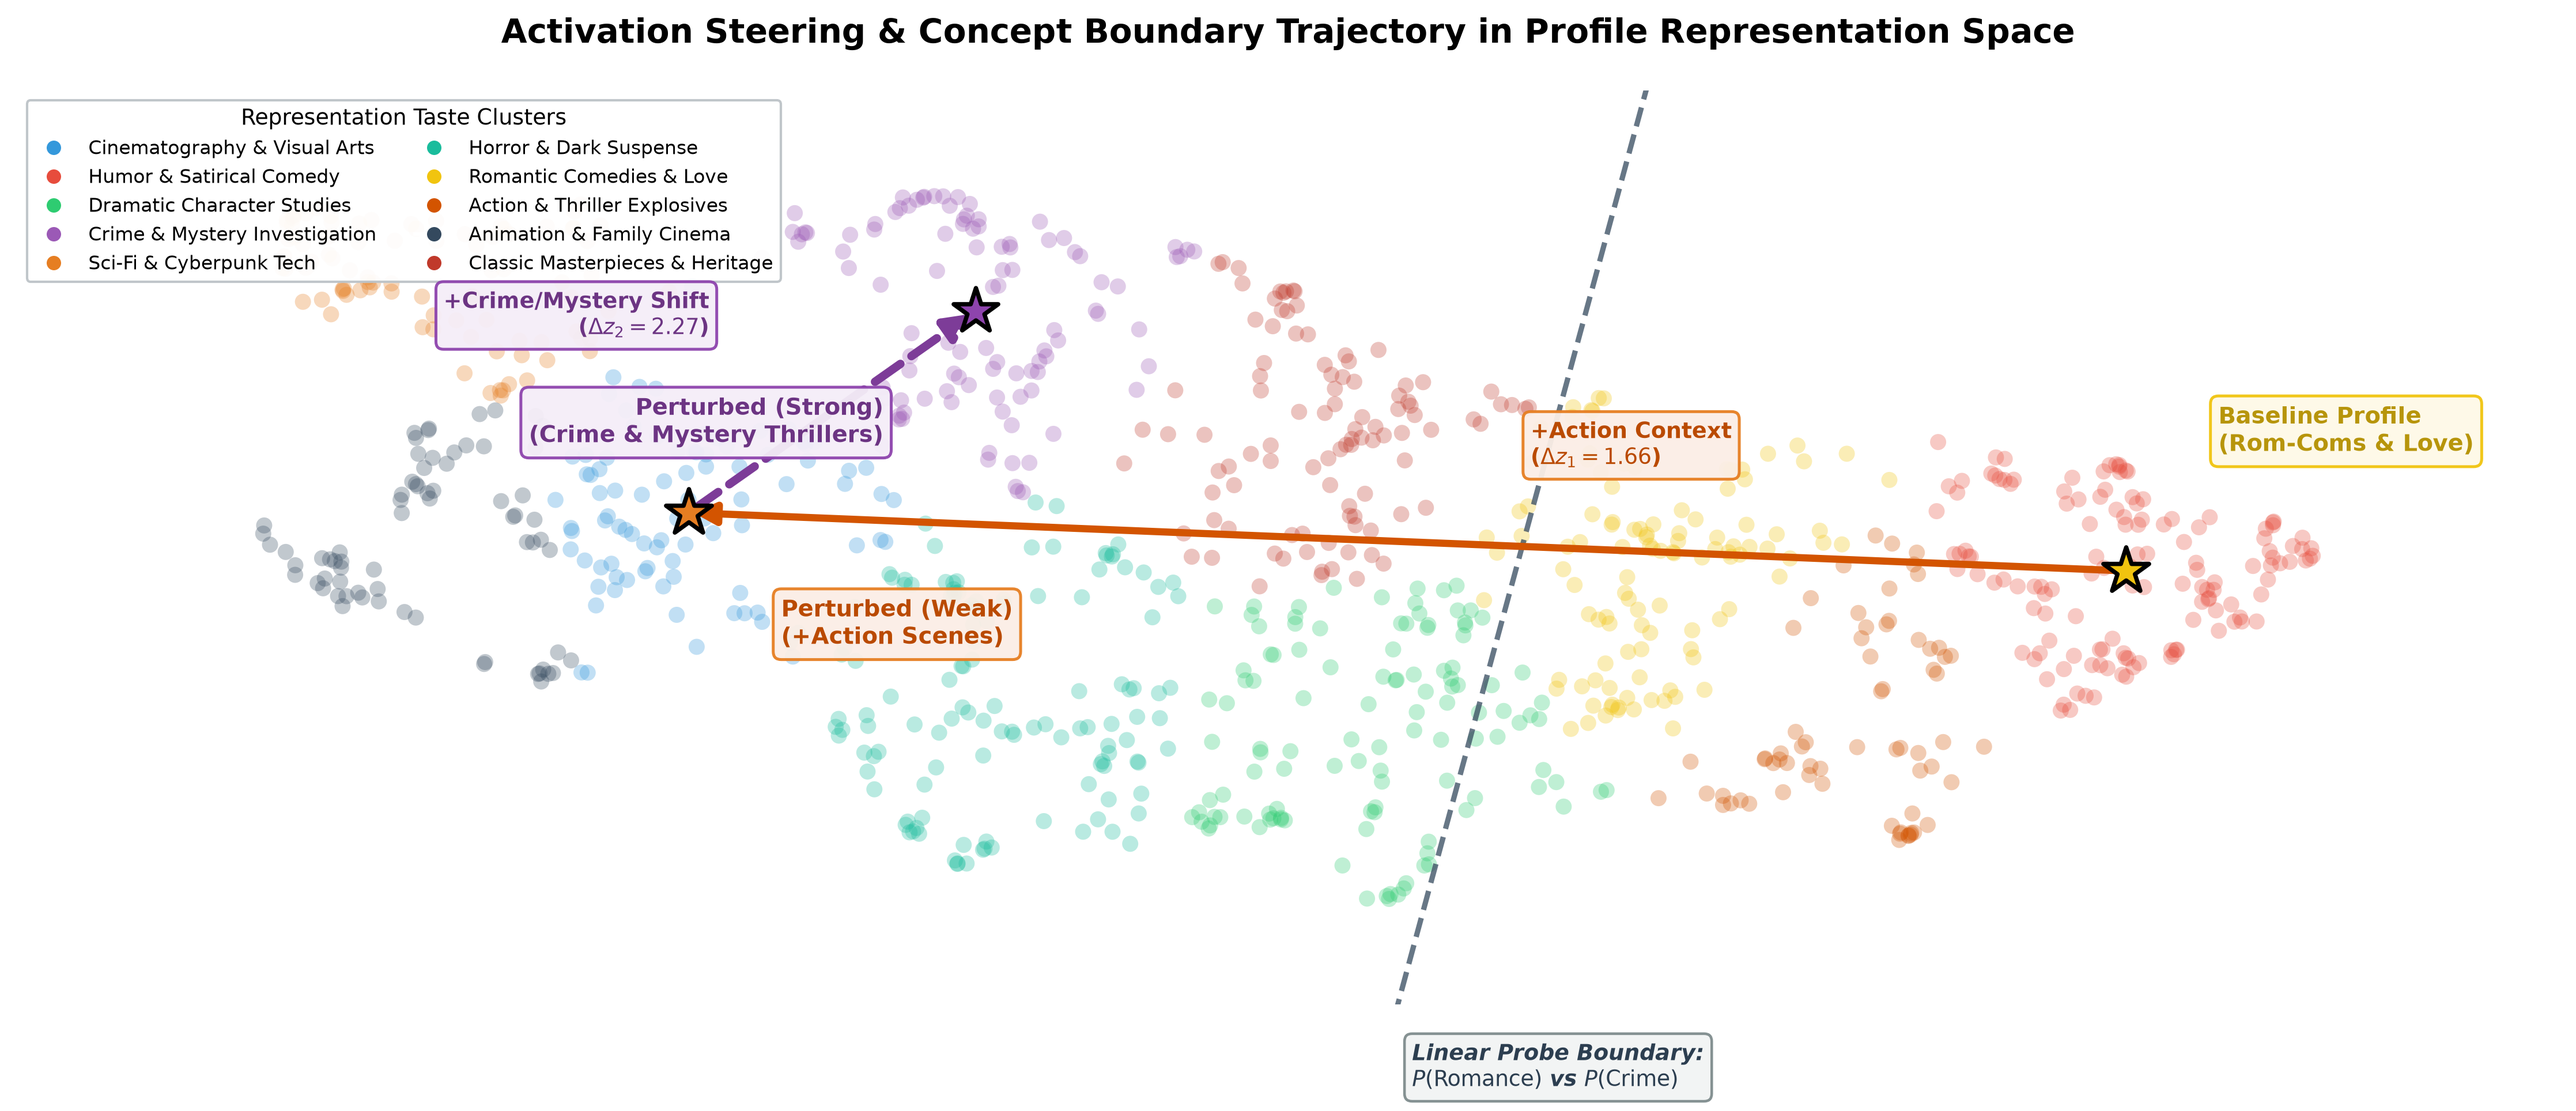
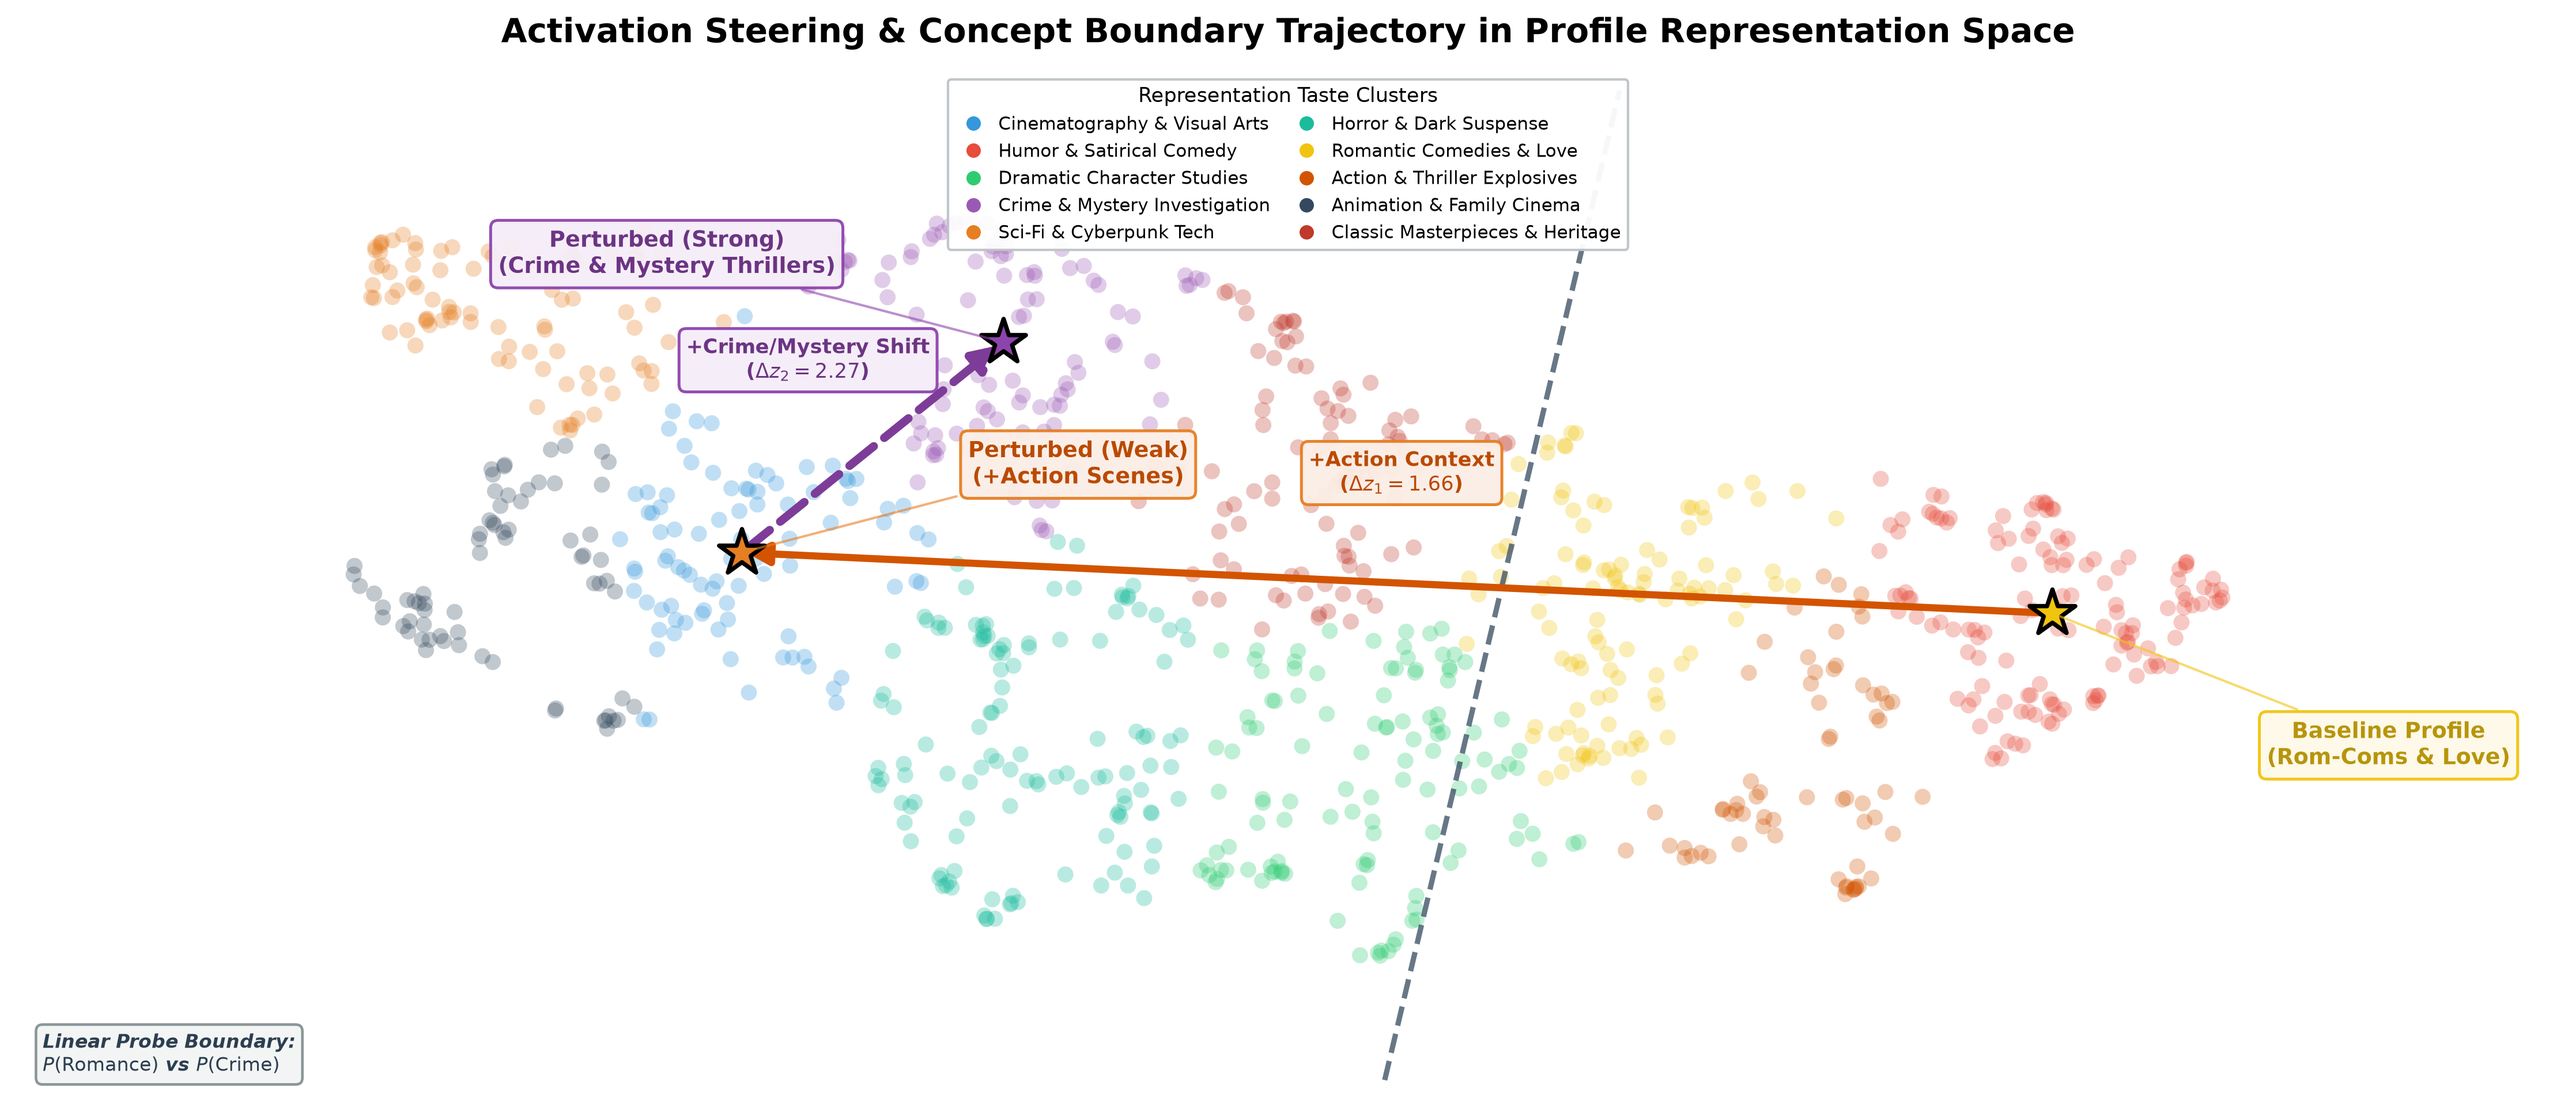
update perturbation mechanistic interpretability plot

diff --git a/user_profile_interpretability.py b/user_profile_interpretability.py
@@ -21,10 +21,16 @@ from sklearn.feature_extraction.text import TfidfVectorizer
 CACHE_DIR = os.path.join(os.path.dirname(os.path.abspath(__file__)), "cache")
 
 
-def _make_cache_key(model_path: str, n_profiles: int, theme_method: str,
-                    n_clusters: int, seed: int = 42) -> str:
-    """Deterministic hash string used to key cached artefacts."""
-    raw = f"{os.path.abspath(model_path)}|{n_profiles}|{theme_method}|{n_clusters}|{seed}"
+def _make_data_cache_key(model_path: str, n_profiles: int,
+                         n_clusters: int, seed: int = 42) -> str:
+    """Cache key for embeddings, BERTScore, UMAP, and K-Means (theme-independent)."""
+    raw = f"{os.path.abspath(model_path)}|{n_profiles}|{n_clusters}|{seed}"
+    return hashlib.sha256(raw.encode()).hexdigest()[:16]
+
+
+def _make_theme_cache_key(data_key: str, theme_method: str) -> str:
+    """Cache key for cluster themes (extends the data key with theme method)."""
+    raw = f"{data_key}|{theme_method}"
     return hashlib.sha256(raw.encode()).hexdigest()[:16]
 
 try:
@@ -987,7 +993,7 @@ def run_perturbation_study(
                 edgecolors='none'
             )
             
-        # Wide-angle 2-column legend for compact, clean header integration in paper reports
+        # Wide-angle 2-column legend OUTSIDE the plot area to avoid obscuring data
         if cluster_themes is not None:
             from matplotlib.lines import Line2D
             legend_elements = []
@@ -1003,13 +1009,17 @@ def run_perturbation_study(
             ax.legend(
                 handles=legend_elements, 
                 title="Representation Taste Clusters", 
-                title_fontsize=9.0,
+                title_fontsize=8.5,
                 ncols=2,
-                loc="upper left", 
-                fontsize=8.0, 
+                loc="upper center", 
+                bbox_to_anchor=(0.5, 1.02),
+                fontsize=7.5, 
                 framealpha=0.95, 
                 facecolor="white",
-                edgecolor="#BDC3C7"
+                edgecolor="#BDC3C7",
+                borderpad=0.4,
+                columnspacing=1.0,
+                handletextpad=0.4
             )
     else:
         ax.scatter(proj[:, 0], proj[:, 1], color='#34495E', s=40, alpha=0.25, edgecolors='none')
@@ -1018,8 +1028,16 @@ def run_perturbation_study(
     emb_dist_1 = float(np.linalg.norm(embs[1] - embs[0]))
     emb_dist_2 = float(np.linalg.norm(embs[2] - embs[1]))
     
+    # Compute data extent for adaptive label placement
+    all_x = list(proj[:, 0]) + [proj_baseline[0], proj_perturbed_weak[0], proj_perturbed_strong[0]]
+    all_y = list(proj[:, 1]) + [proj_baseline[1], proj_perturbed_weak[1], proj_perturbed_strong[1]]
+    x_range = max(all_x) - min(all_x)
+    y_range = max(all_y) - min(all_y)
+    # Use proportional offsets based on data extent
+    ox = x_range * 0.06   # horizontal offset unit
+    oy = y_range * 0.06   # vertical offset unit
+    
     # --- 1. Linear Probe Decision Boundary Line ---
-    # Hyperplane orthogonal to steering vector separating Romance space from Crime space
     probe_midpoint = (proj_baseline + proj_perturbed_strong) / 2.0
     vec_direction = proj_perturbed_strong - proj_baseline
     perp_direction = np.array([-vec_direction[1], vec_direction[0]])
@@ -1040,73 +1058,70 @@ def run_perturbation_study(
         label="Linear Probe Boundary"
     )
     
-    # Probe Boundary Label placed cleanly off the top end of the line
+    # Probe boundary label — pinned to bottom-left corner of the axes
     ax.text(
-        probe_line_p2[0] + 0.3, probe_line_p2[1] + 0.2,
+        0.01, 0.01,
         "Linear Probe Boundary:\n$P(\\mathrm{Romance})$ vs $P(\\mathrm{Crime})$",
-        fontsize=9.0,
+        fontsize=8.0,
         fontweight="bold",
         fontstyle="italic",
         color="#2C3E50",
         ha="left",
         va="bottom",
-        bbox=dict(boxstyle="round,pad=0.35", facecolor="#F2F4F4", edgecolor="#7F8C8D", alpha=0.95, lw=1.1),
+        transform=ax.transAxes,
+        bbox=dict(boxstyle="round,pad=0.35", facecolor="#F2F4F4", edgecolor="#7F8C8D", alpha=0.90, lw=1.1),
         zorder=9
     )
 
     # --- 2. Sequential Connected Trajectory Arrows (A -> B -> C) ---
-    # Vector 1: Baseline -> Weak (+Action Context)
     ax.annotate(
         '', 
         xy=(proj_perturbed_weak[0], proj_perturbed_weak[1]), 
         xytext=(proj_baseline[0], proj_baseline[1]),
-        arrowprops=dict(
-            arrowstyle="-|>", 
-            color="#D35400", 
-            lw=3.0, 
-            mutation_scale=18
-        ),
+        arrowprops=dict(arrowstyle="-|>", color="#D35400", lw=3.0, mutation_scale=18),
         zorder=6
     )
     
-    # Vector 2: Weak -> Strong (+Crime/Mystery Shift)
     ax.annotate(
         '', 
         xy=(proj_perturbed_strong[0], proj_perturbed_strong[1]), 
         xytext=(proj_perturbed_weak[0], proj_perturbed_weak[1]),
-        arrowprops=dict(
-            arrowstyle="-|>", 
-            color="#7D3C98", 
-            lw=3.5, 
-            linestyle="--",
-            mutation_scale=22
-        ),
+        arrowprops=dict(arrowstyle="-|>", color="#7D3C98", lw=3.5, linestyle="--", mutation_scale=22),
         zorder=6
     )
 
-    # Vector Delta Callout Badges (positioned cleanly without overlap)
+    # Vector delta callout badges — placed at midpoints with adaptive offsets
     mid1 = (proj_baseline + proj_perturbed_weak) / 2.0
+    # Place action badge perpendicular to the arrow (below-right if arrow goes up-left, etc.)
+    arrow1_dir = proj_perturbed_weak - proj_baseline
+    perp1 = np.array([arrow1_dir[1], -arrow1_dir[0]])
+    perp1 = perp1 / (np.linalg.norm(perp1) + 1e-8)
+    badge1_pos = mid1 + perp1 * oy * 2.5
     ax.text(
-        mid1[0] + 0.8, mid1[1] + 0.5,
+        badge1_pos[0], badge1_pos[1],
         f"+Action Context\n($\\Delta z_1 = {emb_dist_1:.2f}$)",
-        fontsize=9.0,
+        fontsize=8.5,
         fontweight="bold",
         color="#BA4A00",
-        ha="left",
-        va="bottom",
+        ha="center",
+        va="center",
         bbox=dict(boxstyle="round,pad=0.35", facecolor="#FBEEE6", edgecolor="#E67E22", alpha=0.95, lw=1.2),
         zorder=8
     )
 
     mid2 = (proj_perturbed_weak + proj_perturbed_strong) / 2.0
+    arrow2_dir = proj_perturbed_strong - proj_perturbed_weak
+    perp2 = np.array([-arrow2_dir[1], arrow2_dir[0]])
+    perp2 = perp2 / (np.linalg.norm(perp2) + 1e-8)
+    badge2_pos = mid2 + perp2 * oy * 2.5
     ax.text(
-        mid2[0] - 0.8, mid2[1] + 0.5,
+        badge2_pos[0], badge2_pos[1],
         f"+Crime/Mystery Shift\n($\\Delta z_2 = {emb_dist_2:.2f}$)",
-        fontsize=9.0,
+        fontsize=8.5,
         fontweight="bold",
         color="#6C3483",
-        ha="right",
-        va="bottom",
+        ha="center",
+        va="center",
         bbox=dict(boxstyle="round,pad=0.35", facecolor="#F5EEF8", edgecolor="#8E44AD", alpha=0.95, lw=1.2),
         zorder=8
     )
@@ -1116,33 +1131,36 @@ def run_perturbation_study(
     ax.scatter([proj_perturbed_weak[0]], [proj_perturbed_weak[1]], color='#E67E22', marker='*', s=400, edgecolor='black', linewidth=1.8, zorder=7)
     ax.scatter([proj_perturbed_strong[0]], [proj_perturbed_strong[1]], color='#8E44AD', marker='*', s=380, edgecolor='black', linewidth=1.8, zorder=7)
 
-    # Clean, non-overlapping node labels
-    ax.text(
-        proj_baseline[0] + 0.6, proj_baseline[1] + 0.8, 
-        "Baseline Profile\n(Rom-Coms & Love)", 
-        fontsize=9.5, fontweight='bold', color='#B7950B', ha='left', va='bottom', 
-        bbox=dict(boxstyle="round,pad=0.35", facecolor="#FEF9E7", edgecolor="#F1C40F", alpha=0.95, lw=1.2), zorder=8
-    )
-    ax.text(
-        proj_perturbed_weak[0] + 0.6, proj_perturbed_weak[1] - 0.6, 
-        "Perturbed (Weak)\n(+Action Scenes)", 
-        fontsize=9.5, fontweight='bold', color='#BA4A00', ha='left', va='top', 
-        bbox=dict(boxstyle="round,pad=0.35", facecolor="#FBEEE6", edgecolor="#E67E22", alpha=0.95, lw=1.2), zorder=8
-    )
-    ax.text(
-        proj_perturbed_strong[0] - 0.6, proj_perturbed_strong[1] - 0.6, 
-        "Perturbed (Strong)\n(Crime & Mystery Thrillers)", 
-        fontsize=9.5, fontweight='bold', color='#6C3483', ha='right', va='top', 
-        bbox=dict(boxstyle="round,pad=0.35", facecolor="#F5EEF8", edgecolor="#8E44AD", alpha=0.95, lw=1.2), zorder=8
-    )
+    # Node labels — use connectionstyle annotations with arrows to keep labels clear of data
+    node_labels = [
+        (proj_baseline, "Baseline Profile\n(Rom-Coms & Love)", '#B7950B', '#FEF9E7', '#F1C40F',
+         (3*ox, -3*oy)),
+        (proj_perturbed_weak, "Perturbed (Weak)\n(+Action Scenes)", '#BA4A00', '#FBEEE6', '#E67E22',
+         (3*ox, 2*oy)),
+        (proj_perturbed_strong, "Perturbed (Strong)\n(Crime & Mystery Thrillers)", '#6C3483', '#F5EEF8', '#8E44AD',
+         (-3*ox, 2*oy)),
+    ]
+    
+    for pos, label, txtcolor, facecolor, edgecolor, (dx, dy) in node_labels:
+        ax.annotate(
+            label,
+            xy=(pos[0], pos[1]),
+            xytext=(pos[0] + dx, pos[1] + dy),
+            fontsize=9.0,
+            fontweight='bold',
+            color=txtcolor,
+            ha='center',
+            va='center',
+            bbox=dict(boxstyle="round,pad=0.35", facecolor=facecolor, edgecolor=edgecolor, alpha=0.95, lw=1.2),
+            arrowprops=dict(arrowstyle="-", color=edgecolor, lw=1.0, alpha=0.6),
+            zorder=8
+        )
 
-    # Calculate generous axis limits to prevent any label clipping
-    all_x = list(proj[:, 0]) + [proj_baseline[0], proj_perturbed_weak[0], proj_perturbed_strong[0]]
-    all_y = list(proj[:, 1]) + [proj_baseline[1], proj_perturbed_weak[1], proj_perturbed_strong[1]]
+    # Generous axis limits
     x_min, x_max = min(all_x), max(all_x)
     y_min, y_max = min(all_y), max(all_y)
-    x_pad = (x_max - x_min) * 0.12
-    y_pad = (y_max - y_min) * 0.15
+    x_pad = x_range * 0.18
+    y_pad = y_range * 0.18
     ax.set_xlim(x_min - x_pad, x_max + x_pad)
     ax.set_ylim(y_min - y_pad, y_max + y_pad)
 
@@ -1152,6 +1170,7 @@ def run_perturbation_study(
     plt.savefig(out_path, dpi=300, bbox_inches='tight')
     plt.close()
     print(f"[Interpretability] Saved profile perturbation study plot to {out_path}")
+
 
 
 def visualize_user_profiles(
@@ -1179,14 +1198,17 @@ def visualize_user_profiles(
     force full recomputation.
     """
     os.makedirs(CACHE_DIR, exist_ok=True)
-    cache_key = _make_cache_key(model_path, len(profiles), theme_method, n_clusters)
+    data_key = _make_data_cache_key(model_path, len(profiles), n_clusters)
+    theme_key = _make_theme_cache_key(data_key, theme_method)
+    print(f"[Cache] data_key={data_key} (model={model_path}, n={len(profiles)}, k={n_clusters})")
+    print(f"[Cache] theme_key={theme_key} (theme_method={theme_method})")
     
-    emb_cache   = os.path.join(CACHE_DIR, f"{cache_key}_embs.npy")
-    color_cache = os.path.join(CACHE_DIR, f"{cache_key}_colors.npy")
-    proj_cache  = os.path.join(CACHE_DIR, f"{cache_key}_proj.npy")
-    label_cache = os.path.join(CACHE_DIR, f"{cache_key}_labels.npy")
-    theme_cache = os.path.join(CACHE_DIR, f"{cache_key}_themes.json")
-    reducer_cache = os.path.join(CACHE_DIR, f"{cache_key}_reducer.pkl")
+    emb_cache     = os.path.join(CACHE_DIR, f"{data_key}_embs.npy")
+    color_cache   = os.path.join(CACHE_DIR, f"{data_key}_colors.npy")
+    proj_cache    = os.path.join(CACHE_DIR, f"{data_key}_proj.npy")
+    label_cache   = os.path.join(CACHE_DIR, f"{data_key}_labels.npy")
+    reducer_cache = os.path.join(CACHE_DIR, f"{data_key}_reducer.pkl")
+    theme_cache   = os.path.join(CACHE_DIR, f"{theme_key}_themes.json")
     
     # --- 1. Embeddings ---
     if use_cache and os.path.exists(emb_cache):
